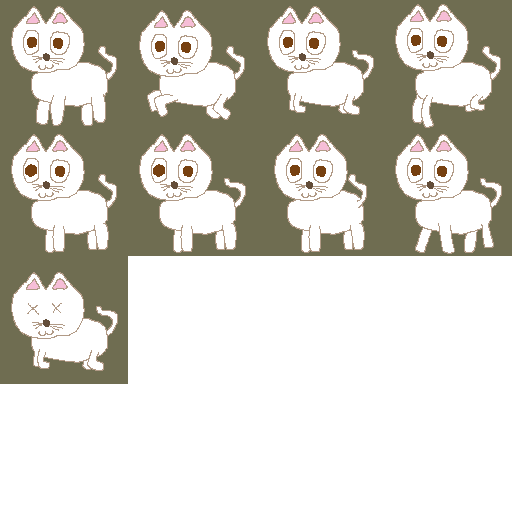
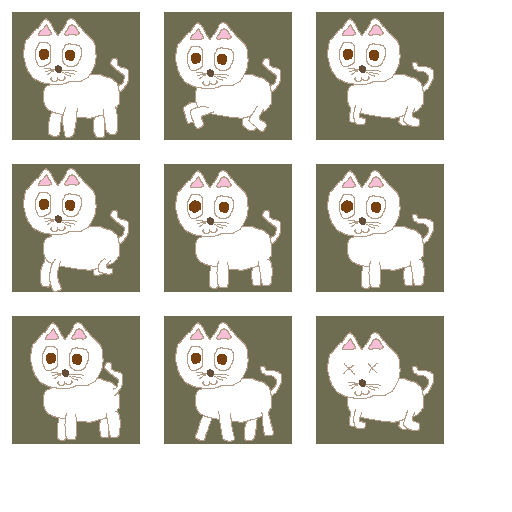
Added support for padding

diff --git a/src/main.cpp b/src/main.cpp
@@ -18,6 +18,7 @@ struct Context
     std::string output_file;
     int output_width;
     int output_height;
+    int padding = 0;
 };
 
 struct ImageData
@@ -51,11 +52,11 @@ void ParseArguments(int argv, const char** argc, Context& context)
         }
     }
 
-    auto width_it = options_table.find("width");
-    auto height_it = options_table.find("height");
-    auto input_it = options_table.find("input");
-    auto output_it = options_table.find("output");
-    auto end = options_table.end();
+    const auto width_it = options_table.find("width");
+    const auto height_it = options_table.find("height");
+    const auto input_it = options_table.find("input");
+    const auto output_it = options_table.find("output");
+    const auto end = options_table.end();
 
     if(width_it == end || height_it == end || input_it == end || output_it == end)
         throw std::runtime_error("Invalid arguments");
@@ -70,6 +71,10 @@ void ParseArguments(int argv, const char** argc, Context& context)
         context.input_files.push_back(token);
         data = nullptr;
     }
+
+    const auto padding_it = options_table.find("padding");
+    if(padding_it != options_table.end())
+        context.padding = std::stoi(padding_it->second);
 }
 
 std::vector<ImageData> LoadImages(const std::vector<std::string>& image_files)
@@ -95,7 +100,7 @@ std::vector<ImageData> LoadImages(const std::vector<std::string>& image_files)
     return images;
 }
 
-std::vector<stbrp_rect> PackImages(const std::vector<ImageData>& images, int width, int height)
+std::vector<stbrp_rect> PackImages(const std::vector<ImageData>& images, int width, int height, int padding)
 {
     std::vector<stbrp_rect> pack_rects;
     pack_rects.reserve(images.size());
@@ -106,8 +111,8 @@ std::vector<stbrp_rect> PackImages(const std::vector<ImageData>& images, int wid
 
         stbrp_rect rect;
         rect.id = index;
-        rect.w = image_data.width;
-        rect.h = image_data.height;
+        rect.w = image_data.width + padding * 2;
+        rect.h = image_data.height + padding * 2;
 
         pack_rects.push_back(rect);
     }
@@ -121,6 +126,12 @@ std::vector<stbrp_rect> PackImages(const std::vector<ImageData>& images, int wid
     const bool success = stbrp_pack_rects(&pack_context, pack_rects.data(), pack_rects.size()) != 0;
     if(!success)
         throw std::runtime_error("Unable to pack all images, consider a bigger output image.");
+
+    for(stbrp_rect& rect : pack_rects)
+    {
+        rect.x += padding;
+        rect.y += padding;
+    }
 
     return pack_rects;
 }
@@ -168,7 +179,7 @@ int main(int argv, const char* argc[])
     {
         ParseArguments(argv, argc, context);
         const std::vector<ImageData>& images = LoadImages(context.input_files);
-        const std::vector<stbrp_rect>& rects = PackImages(images, context.output_width, context.output_height);
+        const std::vector<stbrp_rect>& rects = PackImages(images, context.output_width, context.output_height, context.padding);
         WriteImage(images, rects, context.output_file, context.output_width, context.output_height);
         WriteSpriteFiles(rects);
     }
@@ -176,7 +187,7 @@ int main(int argv, const char* argc[])
     {
         std::printf("\n%s\n", error.what());
         std::printf("\n");
-        std::printf("Usage: baker -width 512 -height 512 -input [image1.png image1.png ...] -output sprite_atlas.png\n");
+        std::printf("Usage: baker -width 512 -height 512 -padding 4 -input [image1.png image1.png ...] -output sprite_atlas.png\n");
         std::printf("\n");
 
         return 1;
